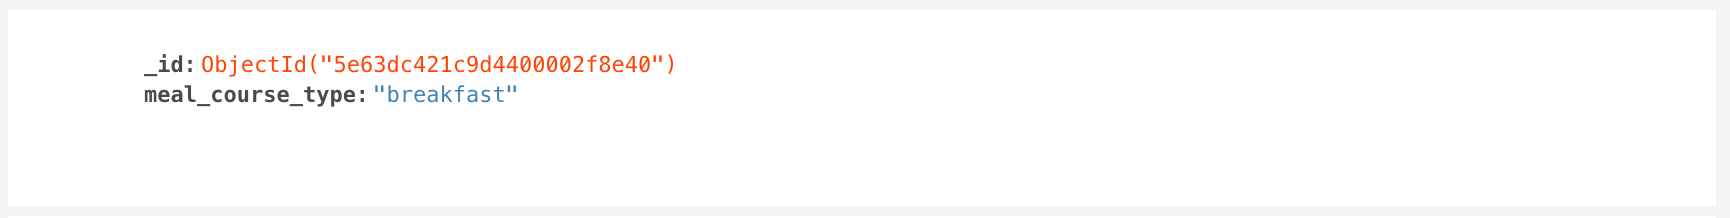
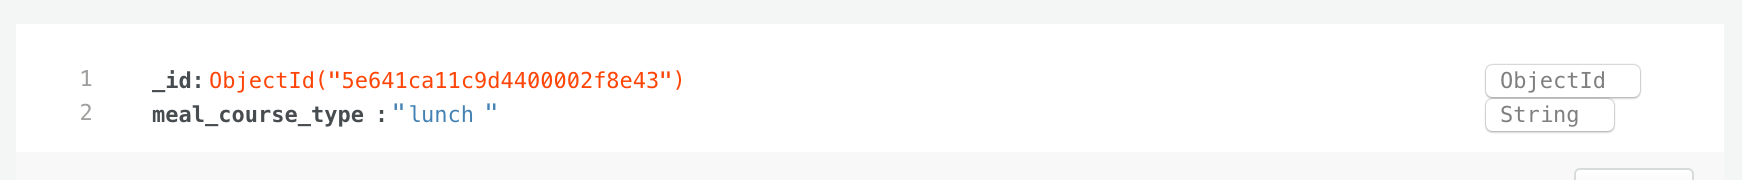
fixed typos and updated mongodb images

diff --git a/README.md b/README.md
@@ -141,13 +141,13 @@ Boolean
 
 The deeelish project relies on three collections:
 
-•	recipes
+#### Recipes
 ![recipes](https://github.com/Carly07/deeelish/blob/master/static/images/mongodb/recipescollection.png)
 
-•	meals_courses
+#### Meals and Courses
 ![meals_courses](https://github.com/Carly07/deeelish/blob/master/static/images/mongodb/meals_coursescollection.png)
 
-•	cuisines
+#### Cuisines
 ![cuisines](https://github.com/Carly07/deeelish/blob/master/static/images/mongodb/cuisinescollection.png)
 
 The ObjectId from the selected meals_courses and cuisines category collection are retrieved and stored as the meal_course_type and cuisine values within the recipe document in the recipes collection. This creates a relationship between the collections which means that if a particular category within either the meals_courses or cuisine collections is updated it will reflect the change in all the recipe documents associated with that category.
@@ -155,21 +155,38 @@ The ObjectId from the selected meals_courses and cuisines category collection ar
 ## Testing
 ### Developer tools
 
-GitPod's preview, google chrome developer tools and responsinator were utilised throughout the development of the project to identify and successfully address any bugs, errors or style issues affecting UX on various screen resolutions. W3C Markup and CSS Validation Services were also used to check the validity of my HTML and CSS code. NB. the W3c validator throws errors in the HTML files linked to the Jinja templating syntax. 
+GitPod's preview, google chrome developer tools and responsinator were utilised throughout the development of the project to identify and successfully address any bugs, errors or style issues affecting UX on various screen resolutions. W3c Markup and CSS Validation Services were also used to check the validity of my HTML and CSS code. 
+**NB.** the W3c validator throws errors in the HTML files the Jinja templating syntax is found. 
 
 ### User scenarios
 
-As hoped, the cook of the household and cooking noice were inspired by the collection of recipes available at Deeelish. They arrived at the site and were immediately presented with recipe imagery that appealed to their senses. With one click on either the 'Discover Recipes' link in the Navbar or the 'Search Recipes' card under the welcome message, they were then presented with the full collection of recipes available, displayed on an accordion showing the Recipe Name, Meal Course and Cuisine. From there, they were able to click on the expand more icon to view the recipe description and or select the 'view' button to access the full recipe. The cooking novice was pleased to find a full list of ingredients and step-by-step intructions as to how to prepare the recipe. They were also able to access the Tips and Techniques page from anywhere on the site using the link on the navbar and this provided them with some handy guides and videos to help improve their cooking skills. The user was able to click on each Tip card to view the information and then click 'close' once finished. In the Technique section, the user was able to view the video by clicking the play icon. 
+#### Cooking novice and Household cook
+As desired, the cook of the household and cooking noice were inspired by the collection of recipes available at Deeelish. They arrived at the site and were immediately presented with recipe imagery that appealed to their senses. With one click on either the **Discover Recipes** link in the Navbar or the **Search Recipes** card under the welcome message, they were then presented with the full collection of recipes available, displayed on an accordion showing the Recipe Name, Meal Course and Cuisine. From there, they were able to click on the expand more icon to view a short recipe description and select the **View** button to access the full recipe. 
 
-The person with food intolerances achieved their desired outcome of filtering the recipe results by specifc dietry requirements as well as their preference for the type of meal course and cuisine. Having navigated to the Discover Recipes page, they were presented with three dropdown select menus; first named suitability providing dietry preferences, a second named Meals & Courses and a third named Cuisines each displaying da list of options. The user was able to select an option from either one, two or all three menus before click the 'filter' button to retrieve the list of results available. Equally, they were able to set the menus to 'All' to return to the full collection. 
+The cooking novice was pleased to find a full list of ingredients and step-by-step intructions as to how to prepare the recipe. They were also able to access the **Tips and Techniques** page from anywhere on the site using the link on the navbar and this provided them with some handy guides and videos to help improve their cooking skills. 
+The user was able to click on each Tip card to read the information and then click **Close** once finished. In the Technique section, the user was able to view the video by clicking the play icon. 
 
-The user with a passion for homecooking, was able to add their own recipes to the collection for sharing with the so Deeelish community. They were able to achieve this by clicking on either the Add Recipe link from the menu or the 'Share Recipe' card om the home page under the welcome message. This provided them with a simple form to input their recipe and a button to submit. If the user tried to submit the recipe without key fields being complete they received they reciped a prompt advising that the information was required. Having successfully submitted the recipe, the user received a confirmation meesage. This user was also pleased to find, having viewed the recipe and spotted an error, that they were able to edit the recipe by clicking on the edit buttons at the end of the recipe. This presented them with a pre-populated form. The user was able to update the required fields and click 'Save Changes' to update the Recipe. Similarly, having changed their mind about a particular recipe entry, they could click on the 'Delete' button located at the end of the recipe. Once again the users was provided with a confirmation message for each edit and delete action completed. 
+#### User with food intolerances
+The person with food intolerances achieved their desired outcome of filtering the recipe results by specifc dietry requirements as well as their preference for the type of meal course and cuisine. 
+Having navigated to the **Discover Recipes** page, they were presented with three dropdown select menus; the first named **suitability** providing dietry preferences, a second named **Meals & Courses** and a third named **Cuisines** each displaying a list of options. The user was able to select an option from either one, two or all three menus before clicking the **filter** button to retrieve the list of results available. Equally, they were able to set the filter menus to 'All' to return to the full collection. 
 
-Additionally, users were able to view, add, edit and delete categories in both the Meals & Course and Cuisines collections by navigating to the 'Browse Categories' link in the menu. There they were presented with a button at the top to 'Add new Category' following by the results for both collections each with the option to edit or delete by clicking on the associated expand icon. Having selected to add a new category, they were redirect to a simple form containing the collection names as subheadings, an input field below each to type in their new category name and a button to 'Add Category'. If successful, they received a confirmation message but if the category already existed in the database, they receive a message advising them so and the category is not added to the collection. Having opted to edit a category they were taken to a simple form with the collection heading, a pre-populated input field ready for editing and a 'Save Changes' button to update the database. The user then received a confirmation message that the category had been updated and they were able to see their result in the category list as well as in the dropdown menus on the Discover Recipe, Add Recipe and Edit Recipe pages. Similarly, users were able to delete a category and observe the result in this way. However, if they tried to delete a category that was already being used by a recipe, they recieved a message advising them so and the category was not deleted from the collection.   
+#### User with a passion for cooking
+The user with a passion for homecooking, was able to add their own recipes to the collection for sharing with the Deeelish community. They were able to achieve this by clicking on either the **Add Recipe*** link from the menu or the **Share Recipe** card on the home page under the welcome message. This provided them with a simple form to input their recipe and a button to **Submit Recipe**. If the user tried to submit the recipe without key fields being complete, they received a prompt advising that the information was required. Having successfully submitted the recipe, the user received a confirmation message. 
+
+This user was also pleased to find, having viewed the recipe and spotted an error, that they were able to edit the recipe by clicking on the **Edit** buttons at the end of the recipe. This presented them with a pre-populated form similar to the Add Recipe page. The user was able to update the required fields and click **Save Changes** to update the Recipe. 
+
+Similarly, having changed their mind about a particular recipe entry, they could click on the **Delete** button located at the end of the recipe. Once again the user was provided with a confirmation message for each edit and delete action completed. 
+
+
+Additionally, users were able to **View**, **Add**, **Edit** and **Delete** categories in both the Meals & Course and Cuisines collections by navigating to the **Browse Categories** link in the menu. There they were presented with a button at the top to **Add New Category** followed by the results for both collections, each with the option to **Edit** or **Delete** by clicking on the expand icon. 
+
+Having selected to add a new category, they were redirect to a simple form containing the collection names as subheadings, an input field below each to type in their new category name and a button to **Add Category**. If successful, they received a confirmation message but when the category already existed in the database, they receive a message advising them so and the category was not added to the collection. 
+
+Similarly when they opted to edit a category they were taken to a simple form with the collection heading, a pre-populated input field ready for editing and a **Save Changes** button to update the database. The user then received a confirmation message that the category had been updated and they were able to see their result in the category list as well as in the dropdown menus on the Discover Recipe, Add Recipe and Edit Recipe pages. Users were also able to delete a category and observe the result in this way but if they tried to delete a category that was already being used by a recipe, they recieved a message advising them so and the category was not deleted from the collection.   
 
 ### Multiple browsers and devices
 
-After the site was deployed, I tested it across four browsers (Chrome, Safari, Internet Explorer, FireFox) and on multiple devices (Samsung Galaxy J3, iPhone 7 Plus, 8, iPad 6, iPad Air, MacBook Air and iMac) as well as on Responsinator to ensure compatibility and responsiveness. Whilst testing, I noticed that the parallax images were not displaying correctly on my iphone. Having researched the problem, I found that using a media query to adjust the height fixed the issue. I also found that 
+After the site was deployed, I tested it across four browsers (Chrome, Safari, Internet Explorer, FireFox) and on multiple devices (Samsung Galaxy J3, iPhone 7 Plus, 8, iPad 6, iPad Air, MacBook Air and iMac) as well as on Responsinator to ensure compatibility and responsiveness. Whilst testing, I noticed that the parallax images were not displaying correctly on my iphone. Having researched the problem, I found that using a media query to adjust the height fixed the issue. I also found that...
 
 
 ## Deployment
